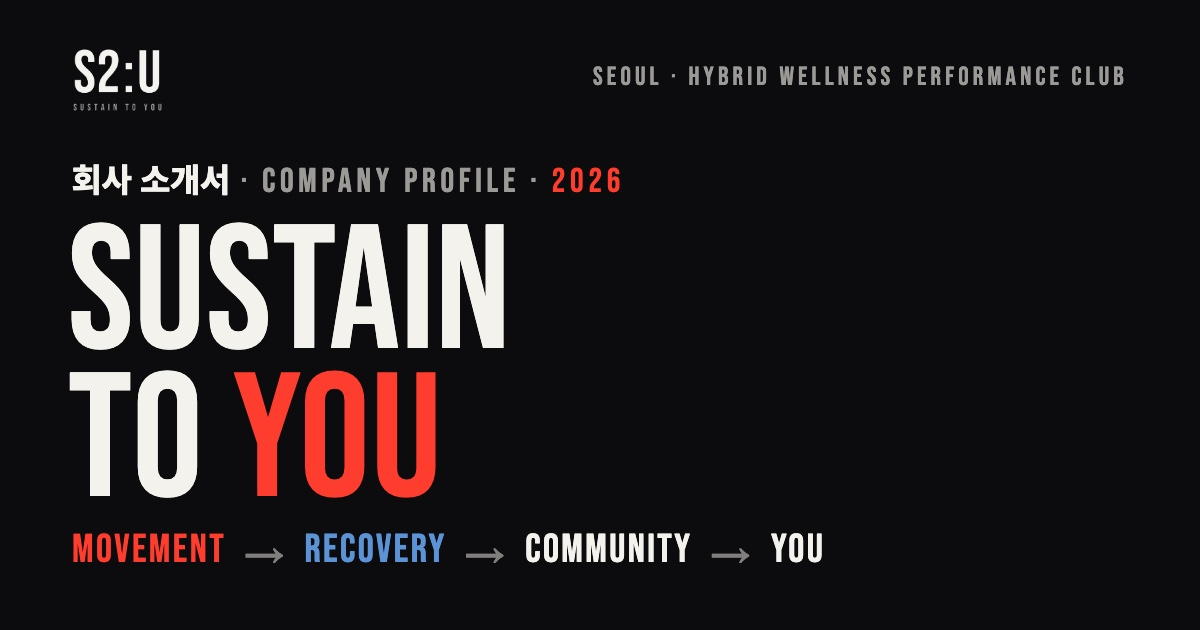
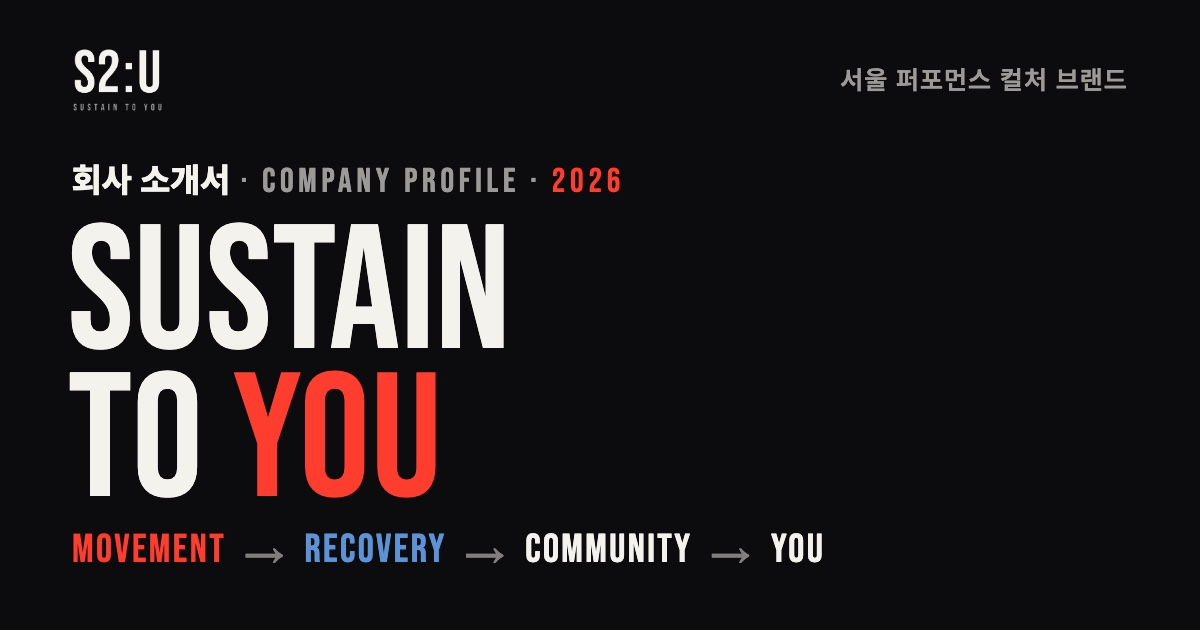
Profile: tagline to 서울 퍼포먼스 컬처 브랜드 (page + preview card)

Changed region(s): [[0.4933, 0.0905, 0.9558, 0.1508]]

diff --git a/profile/index.html b/profile/index.html
@@ -53,7 +53,7 @@ section{padding-block:clamp(64px,10vw,128px);border-top:1px solid var(--line)}
 /* top */
 .top{display:flex;justify-content:space-between;align-items:center;gap:16px;flex-wrap:wrap;padding-block:22px}
 .top img{height:40px;width:auto}
-.top span{font-family:var(--display);letter-spacing:.16em;font-size:15px;color:var(--bone-dim)}
+.top span{font-family:var(--body);font-weight:600;letter-spacing:.06em;font-size:15px;color:var(--bone-dim)}
 
 /* hero */
 .hero{border-top:none;padding-block:clamp(48px,8vw,96px) clamp(56px,9vw,112px)}
@@ -210,7 +210,7 @@ footer{padding-block:28px 52px;display:flex;justify-content:space-between;gap:12
 <div class="wrap">
   <div class="top">
     <img src="media/s2u-wordmark-white.png" alt="S2:U Sustain to You">
-    <span>SEOUL · HYBRID WELLNESS PERFORMANCE CLUB</span>
+    <span>서울 퍼포먼스 컬처 브랜드</span>
   </div>
 
   <section class="hero">
